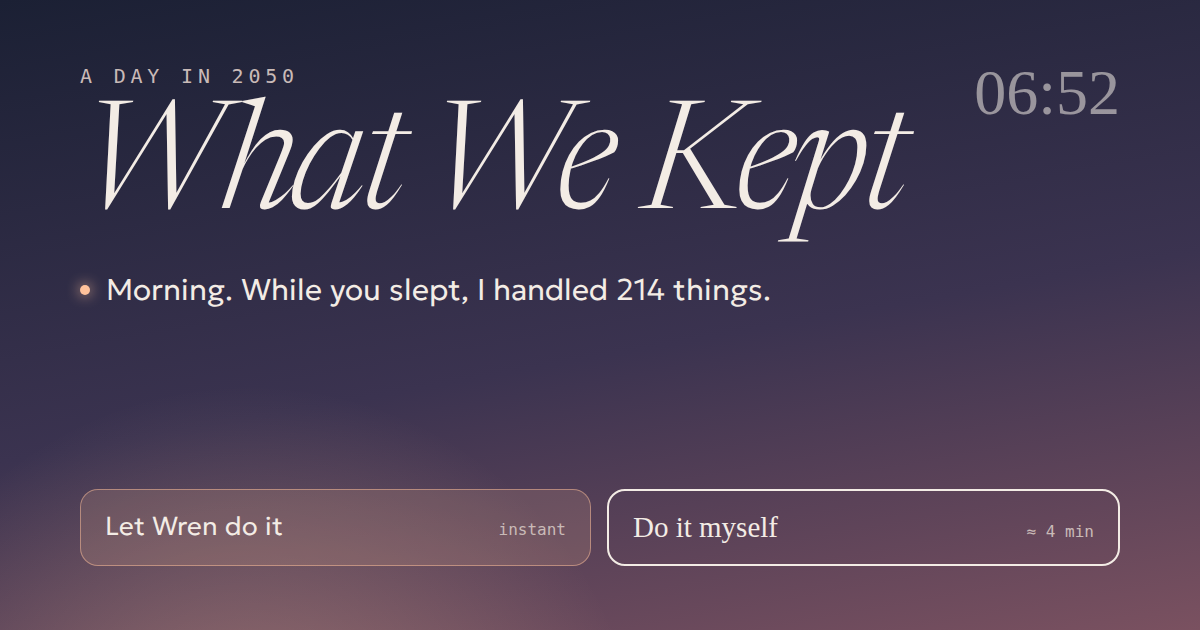
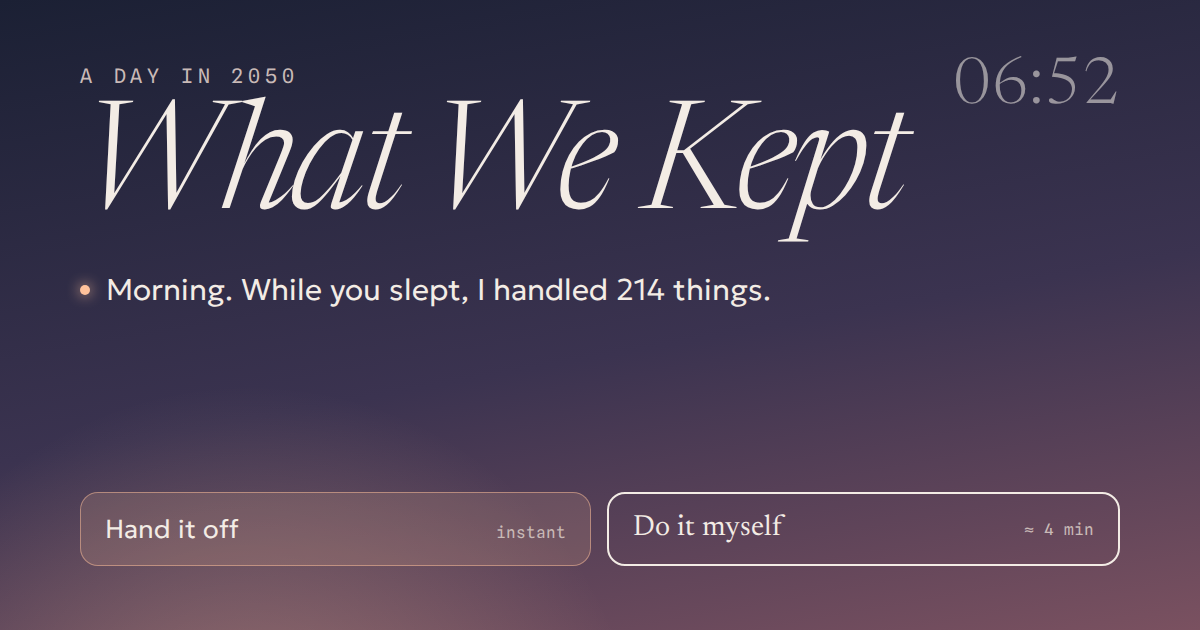
What We Kept: reader-paced text and a player-named agent
The story no longer advances on a timer. Each line waits for a tap,
Continue, or Space; an Auto toggle in the dock restores slow timed
pacing. The player now names their agent before waking instead of a
fixed name, and the share image drops the name.

Claude-Session: https://claude.ai/code/session_01U6t7gUUJLR4NYKpcdZScQy

diff --git a/2050/index.html b/2050/index.html
@@ -143,6 +143,15 @@ ul.sys.num li { padding-left: 0; color: var(--ink); font-size: .8rem; }
 .ch.hand { background: transparent; border: 1.5px solid var(--ink); font-family: var(--f-prose); font-size: 1.1rem; }
 .ch.small { padding: 10px 14px; font-size: .86rem; justify-content: center; }
 .ch:disabled { opacity: .35; cursor: default; }
+.controw { display: grid; grid-template-columns: 1fr auto; gap: 8px; }
+.ch.cont { background: transparent; border: 1px solid var(--line); font-family: var(--f-data); font-size: .78rem; letter-spacing: .06em; color: var(--ink); padding: 13px 16px; }
+.ch.cont.auto { justify-content: center; color: var(--dim); }
+.ch.cont.auto.on { color: var(--ink); border-color: var(--accent); box-shadow: 0 0 18px -8px var(--accent); }
+.ch.cont.auto::before { content: ""; width: 7px; height: 7px; border-radius: 50%; border: 1px solid currentColor; margin-right: 8px; align-self: center; }
+.ch.cont.auto.on::before { background: var(--accent); border-color: var(--accent); }
+.namein { font-family: var(--f-prose); font-style: italic; font-size: 2rem; color: var(--ink); background: transparent; border: 0; border-bottom: 1.5px solid var(--ink); padding: 6px 2px; width: 100%; max-width: 16ch; outline: none; border-radius: 0; }
+.namein::placeholder { color: var(--dim); opacity: .6; }
+.namein:focus-visible { outline: none; border-bottom-color: var(--accent); }
 .row2 { display: grid; grid-template-columns: 1fr 1fr; gap: 8px; }
 
 /* Title */
@@ -268,7 +277,7 @@ ul.sys.num li { padding-left: 0; color: var(--ink); font-size: .8rem; }
   <header class="bar">
     <div class="clock"><b id="clk">06:52</b><span id="date">2050</span></div>
     <div class="bar-r">
-      <span class="pill wren" id="wstat"><i></i><span>Wren</span></span>
+      <span class="pill wren" id="wstat"><i></i><span>agent</span></span>
       <button class="pill" id="foundBtn" type="button" aria-label="Pieces of 2050 you have found"><span>◆</span><span id="foundN">0/28</span></button>
       <button class="pill" id="sndBtn" type="button" aria-pressed="false" aria-label="Sound">♪ off</button>
     </div>
@@ -310,7 +319,7 @@ $("#date").textContent = DATESTR.replace(/^\w+ /, "");
 
 /* ---------- Pieces of 2050 ---------- */
 const ART = {
-  wren: ["NEW", "Wren", "With you since 2034", "Your agent. You named it at twenty-three, after a bird you saw that week. It has read every message you’ve sent since. It knows your bank, your blood type and your mother’s birthday. It has no face. You chose that."],
+  wren: ["NEW", "Wren", "With you since 2034", "Your agent. You named it at twenty-three and it has answered to that name every day since. It has read every message you’ve sent since. It knows your bank, your blood type and your mother’s birthday. It has no face. You chose that."],
   window: ["OLD", "The window", "Unchanged since 1987", "Single glazing, a draught in winter, fog on cold mornings. Wren could have it replaced in a day. You’ve never asked. Some things you keep because they’re yours."],
   admin: ["CHANGED", "Life admin", "Was: your evenings. Now: agents talking to agents.", "Bills, bookings, returns, forms, disputes. In 2026 it ate hours of every week. Now it’s mostly machines negotiating with other machines in milliseconds, in formats no person reads. You can see the receipts. You rarely look."],
   yourvoice: ["NEW", "Your voice", "Licensed to Wren in 2044", "A model of how you write: your jokes, your sign-offs, the way you avoid exclamation marks. Most adults have one. Etiquette says messages your agent wrote carry a small ◦. Not everyone follows etiquette."],
@@ -402,22 +411,48 @@ const A = {
 $("#sndBtn").addEventListener("click", () => A.set(!A.on));
 
 /* ---------- Text, timing, and the skip ---------- */
-let fast = false, skipper = null;
+let skipper = null, auto = !!store.get("wwk.auto", false);
+let AGENT = String(store.get("wwk.name", "") || "").replace(/[^\p{L}\p{N} '\-]/gu, "").trim().slice(0, 16);
+const nm = t => AGENT ? String(t).replace(/\bWren\b/g, AGENT) : String(t);
 const sleep = ms => new Promise(r => setTimeout(r, FASTDEV ? Math.min(ms, 20) : ms));
+// Short timed pause; a tap skips it.
 function wait(ms) {
-  if (fast || FASTDEV) ms = Math.min(ms, 40);
+  if (FASTDEV) ms = Math.min(ms, 40);
   if (RM) ms = Math.min(ms, 500);
   return new Promise(r => {
     const done = () => { clearTimeout(t); if (skipper === done) skipper = null; r(); };
     const t = setTimeout(done, ms); skipper = done;
   });
 }
+// Reading pause: waits for the reader (tap, Continue, Space), or a slow timer when Auto is on.
+function beat(ms) {
+  if (FASTDEV) return sleep(20);
+  return new Promise(r => {
+    let t = 0;
+    const arm = () => { clearTimeout(t); if (auto) t = setTimeout(done, ms * 1.6); };
+    const done = () => { clearTimeout(t); if (skipper === done) skipper = null; dock.replaceChildren(); r(); };
+    skipper = done;
+    const go = el("button", "ch cont", "<span class='l'>Continue</span><span class='m'>tap anywhere</span>"); go.type = "button";
+    const au = el("button", "ch cont auto" + (auto ? " on" : ""), "Auto"); au.type = "button"; au.setAttribute("aria-pressed", String(auto));
+    go.addEventListener("click", done);
+    au.addEventListener("click", () => { auto = !auto; store.set("wwk.auto", auto); au.classList.toggle("on", auto); au.setAttribute("aria-pressed", String(auto)); arm(); });
+    const row = el("div", "controw"); row.append(go, au); dock.replaceChildren(row);
+    arm();
+  });
+}
 stage.addEventListener("click", e => {
   if (e.target.closest("button, input, label, canvas, .art")) return;
-  if (skipper) { fast = true; skipper(); }
+  if (skipper) skipper();
 });
-function el(tag, cls, html) { const e = document.createElement(tag); if (cls) e.className = cls; if (html != null) e.innerHTML = html; return e; }
+document.addEventListener("keydown", e => {
+  if (!skipper || e.repeat || !sheet.hidden) return;
+  if (!["Enter", " ", "ArrowRight", "ArrowDown"].includes(e.key)) return;
+  if (e.target.closest && e.target.closest("input, button, .art, label")) return;
+  e.preventDefault(); skipper();
+});
+function el(tag, cls, html) { const e = document.createElement(tag); if (cls) e.className = cls; if (html != null) e.innerHTML = nm(html); return e; }
 function rich(node, text) {
+  text = nm(text);
   const re = /\[\[(\w+)\|([^\]]+)\]\]/g; let i = 0, m;
   while ((m = re.exec(text))) {
     if (m.index > i) node.append(text.slice(i, m.index));
@@ -441,7 +476,7 @@ async function say(kind, text, who) {
   if (who) p.append(el("span", "who", who));
   rich(p, text); put(p);
   if (kind === "w") A.blip(1318, .028, .6);
-  await wait(readTime(text));
+  await beat(readTime(text));
 }
 const N = t => say("n", t);
 const W = t => say("w", t);
@@ -450,11 +485,10 @@ function hint(t) { put(el("p", "hint", t)); }
 async function sysList(items, gap, numbered) {
   const ul = put(el("ul", "sys" + (numbered ? " num" : "")));
   for (const it of items) { const li = el("li"); rich(li, it); ul.append(li); down(); A.blip(2200, .008, .08); await wait(gap); }
-  await wait(500);
+  await beat(2400);
 }
 
 function choose(opts) {
-  fast = false;
   return new Promise(res => {
     const btns = opts.map(o => {
       const b = el("button", "ch " + (o.kind || "plain")); b.type = "button";
@@ -482,7 +516,7 @@ function setPhase(p) {
 }
 function setWren(on) {
   const w = $("#wstat"); w.classList.toggle("off", !on);
-  w.querySelector("span").textContent = on ? "Wren" : "Wren · quiet";
+  w.querySelector("span").textContent = (AGENT || "agent") + (on ? "" : " · quiet");
 }
 function setWire(list) {
   const t = $("#tick"); t.replaceChildren();
@@ -497,7 +531,7 @@ async function scene(time, phase, place, wire) {
   stage.replaceChildren(); stage.classList.remove("out"); stage.scrollTop = 0;
   setPhase(phase); $("#clk").textContent = time; setWire(wire || []);
   const c = el("div", "chap"); c.append(el("span", "t", time), el("span", "pl", place)); put(c);
-  await wait(1000);
+  await wait(1300);
 }
 
 /* ---------- Sheet: a piece of 2050, or all of them ---------- */
@@ -594,7 +628,7 @@ function builder(tiles) {
     const out = el("p", "built", "…"), grid = el("div", "tiles"), picked = [];
     box.append(el("div", "cap", "Build your answer. Pick up to three, in the order you’d say them."), out, grid);
     const go = el("button", "ch hand", "Say it"); go.type = "button"; go.disabled = true;
-    const render = () => { out.textContent = picked.length ? compose(picked) : "…"; go.disabled = !picked.length; };
+    const render = () => { out.textContent = picked.length ? nm(compose(picked)) : "…"; go.disabled = !picked.length; };
     tiles.forEach(t => {
       const b = el("button", "tile", t); b.type = "button";
       b.addEventListener("click", () => {
@@ -703,7 +737,7 @@ function quietHold(total) {
     [19, "You notice you’re waiting for something to need you."], [23, "Nothing does."], [27, "That’s all right."]
   ];
   const scale = total / 30;
-  const setText = t => { txt.classList.add("fade"); setTimeout(() => { txt.textContent = t; txt.classList.remove("fade"); }, RM ? 0 : 420); };
+  const setText = t => { txt.classList.add("fade"); setTimeout(() => { txt.textContent = nm(t); txt.classList.remove("fade"); }, RM ? 0 : 420); };
   return new Promise(res => {
     btns.replaceChildren(); ring.hidden = false; tm.hidden = false;
     ring.style.setProperty("--p", 0); tm.textContent = "0:00";
@@ -772,13 +806,41 @@ async function titleScreen() {
   const p1 = el("p", "n", "It’s " + DATESTR.replace(/^\w+ /, "") + ". Twenty-four years from the day you opened this.");
   const p2 = el("p", "n", "You’re thirty-nine. In 2026 you were fifteen.");
   const p3 = el("p", "n", "Almost nothing needs you anymore. Today, you’ll find out what still does.");
-  t.append(p1, p2, p3, el("p", "meta-note", "About 12 minutes · best with sound and headphones · tap the story to move faster"));
+  t.append(p1, p2, p3, el("p", "meta-note", "About 15 minutes · best with sound · you set the pace: tap to continue, or switch on Auto"));
   put(t);
   const k = await choose([
     { k: "snd", label: "Wake up", meta: "with sound", kind: "ai", echo: false },
     { k: "quiet", label: "Wake up without sound", kind: "plain", echo: false }
   ]);
   A.set(k === "snd");
+  if (!AGENT) await nameAgent();
+}
+
+async function nameAgent() {
+  stage.classList.add("out"); await sleep(RM ? 0 : 420);
+  stage.replaceChildren(); stage.classList.remove("out");
+  const t = el("div", "title");
+  t.append(el("div", "eyebrow", "Before you wake"));
+  t.append(el("p", "n", "You got your agent at twenty-three and gave it a name. It has answered to that name every day since."));
+  t.append(el("p", "n", "What did you call it?"));
+  const inp = el("input", "namein"); inp.id = "agentName"; inp.type = "text"; inp.maxLength = 16;
+  inp.autocomplete = "off"; inp.setAttribute("autocapitalize", "words"); inp.spellcheck = false;
+  inp.placeholder = "a name"; inp.setAttribute("aria-label", "Your agent’s name");
+  t.append(inp, el("p", "meta-note", "Any name. You can’t change it later in the day, same as real life."));
+  put(t);
+  const go = el("button", "ch hand", "<span class='l'>That’s its name</span>"); go.type = "button"; go.disabled = true;
+  dock.replaceChildren(go);
+  const clean = () => inp.value.replace(/[^\p{L}\p{N} '\-]/gu, "").replace(/\s+/g, " ").trim();
+  inp.addEventListener("input", () => { go.disabled = !clean(); });
+  await new Promise(res => {
+    const submit = () => { if (!clean()) return; res(); };
+    go.addEventListener("click", submit);
+    inp.addEventListener("keydown", e => { if (e.key === "Enter") { e.preventDefault(); submit(); } });
+  });
+  const v = clean();
+  AGENT = v.charAt(0).toUpperCase() + v.slice(1);
+  store.set("wwk.name", AGENT);
+  inp.blur(); dock.replaceChildren(); setWren(true);
 }
 
 async function wake() {
@@ -843,7 +905,7 @@ async function junoScene() {
     await W("Juno, people who grew up before agents learned their manners on other people, so they use them everywhere. It costs nothing, and it’s kind. You can if you want to.");
     await P("Juno", "Okay.");
     await N("It’s a good answer. Better than yours would have been. Juno goes back to drawing and won’t remember it by lunch.");
-    await N("The drawing is of a small bird. Juno has never seen what Wren looks like. Nobody has.");
+    await N("The drawing is of a small glowing shape with legs. Juno has never seen what Wren looks like. Nobody has.");
   } else {
     S.junoBy = "you"; S.hand.juno = true; S.min += 11;
     const picks = await builder([
@@ -1021,7 +1083,7 @@ async function quietScene() {
 async function night() {
   await scene("22:30", "night", "Night", ["Orbital datacentre #3 online · grid relief for heat zones", "Tomorrow: 31°C · your run moved to 06:10"]);
   if (S.junoBy === "you") await N("Juno’s asleep. The drawing of you is on the fridge, held up by a magnet shaped like a pear. Your nose is enormous.");
-  else await N("Juno’s asleep. The bird drawing is on the fridge, held up by a magnet shaped like a pear.");
+  else await N("Juno’s asleep. The drawing of Wren, a glowing shape with legs, is on the fridge, held up by a magnet shaped like a pear.");
   await W("Can I ask you something? You’re the only one who can answer it.");
   await W("Tomorrow I can do all of it. The coffee. The walk. The answers. The waiting. Faster than you, and better.");
   await W("Which ones should I leave for you?");

diff --git a/index.html b/index.html
@@ -88,7 +88,7 @@
       <img class="thumb" src="2050/og.png" alt="Italic serif title What We Kept over a dawn sky, with two choices: Let Wren do it, instant, or Do it myself, about four minutes." loading="lazy" />
       <div class="body">
         <h2>what we kept <span class="arrow">→</span></h2>
-        <p>One day in 2050. Your agent handled 214 things while you slept.
+        <p>One day in 2050. You name your agent; it handled 214 things while you slept.
           Every choice after that is one tap to delegate, or doing it yourself:
           pour, sign, walk, wait. At night it asks what to leave for you.</p>
         <div class="tags"><span class="tag">speculative</span><span class="tag">playable</span><span class="tag">web&nbsp;audio</span><span class="tag">no&nbsp;deps</span></div>
